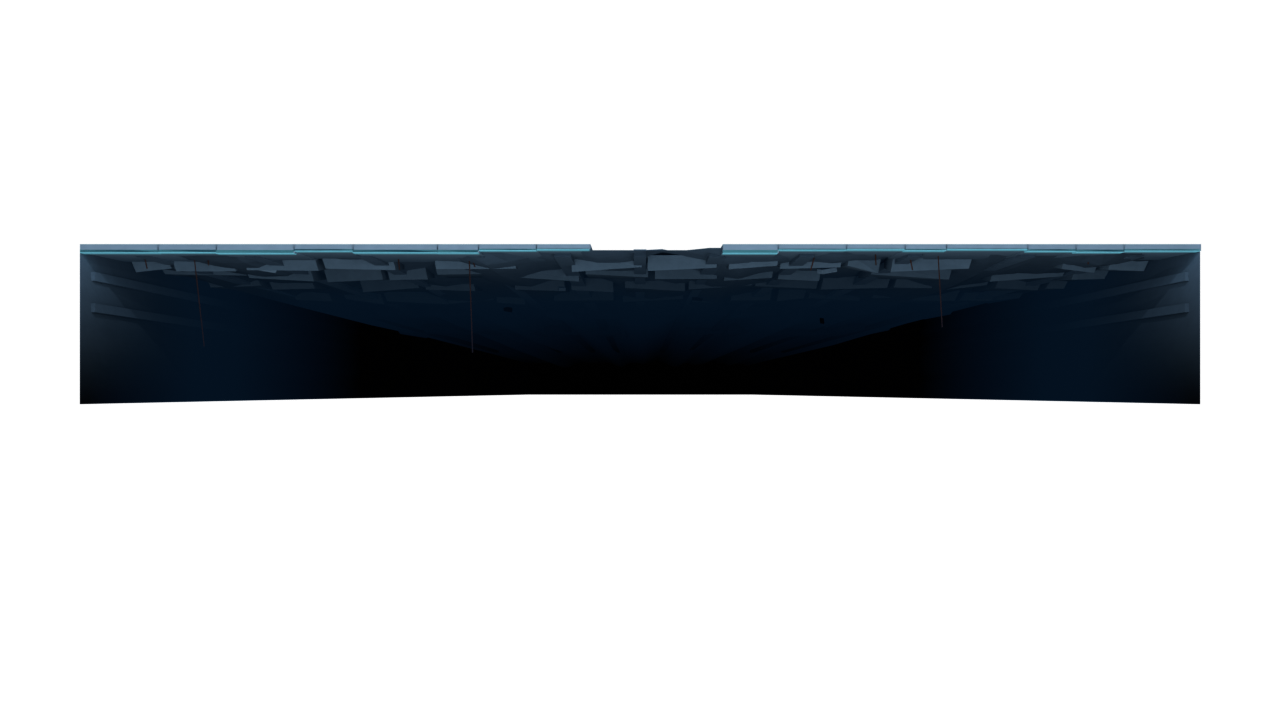
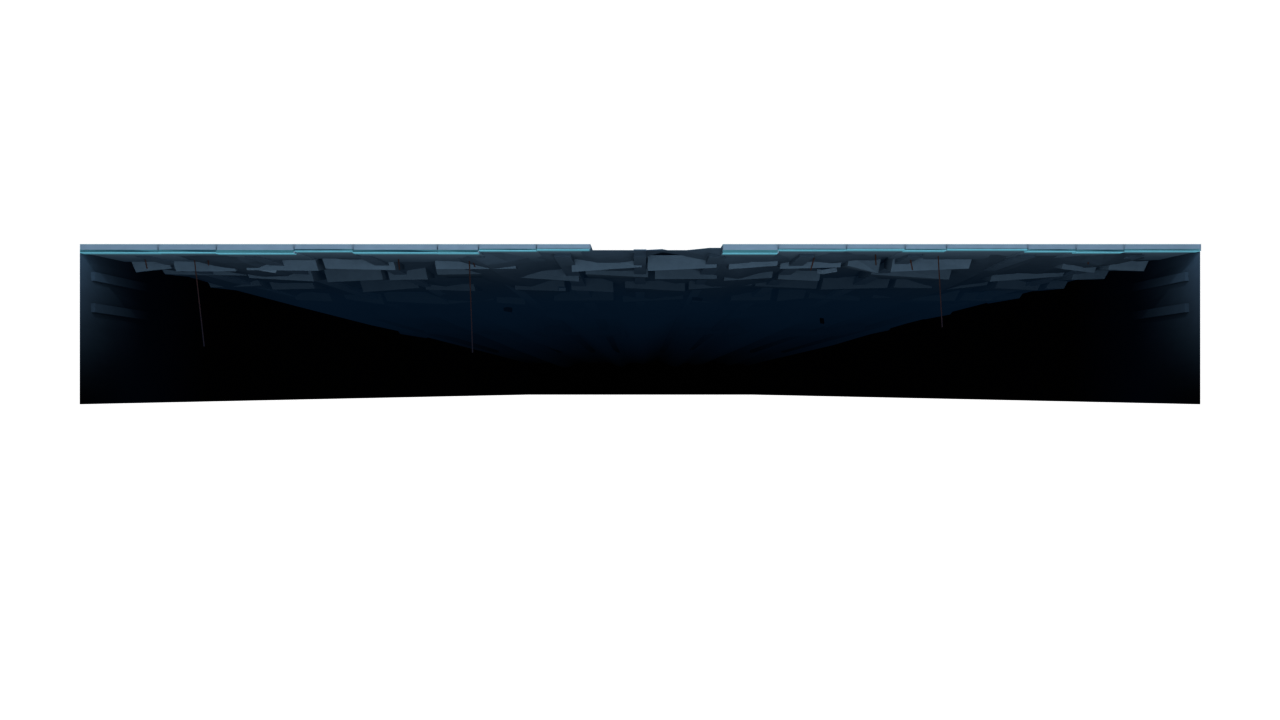
hub: deepen side-wall corner fog falloff for crisp pit contrast

Changed region(s): [[0.7812, 0.3667, 0.9062, 0.5806], [0.0938, 0.3667, 0.2188, 0.5806]]

diff --git a/art/tools/rift12.py b/art/tools/rift12.py
@@ -40,7 +40,7 @@ def P(sx, sy, k=0.0, off=Vector((0, 0, 0))):
 
 def L3(c): return tuple(((v/255) ** 2.2) for v in c)
 
-def pit_mat(name, rgb, rough=0.93, metal=0.02, noise=0.40, fog_start=-0.25, fog_mid=-2.6, fog_end=-4.7, emit=None, use_vcol=True):
+def pit_mat(name, rgb, rough=0.93, metal=0.02, noise=0.40, fog_start=-0.25, fog_mid=-2.6, fog_end=-4.7, emit=None, use_vcol=True, fog_col=(13, 27, 41)):
     m = bpy.data.materials.new(name); m.use_nodes = True; nt = m.node_tree; ns = nt.nodes; L = nt.links
     bs = ns['Principled BSDF']; bs.inputs['Roughness'].default_value = rough; bs.inputs['Metallic'].default_value = metal
     if 'Specular IOR Level' in bs.inputs: bs.inputs['Specular IOR Level'].default_value = 0.0
@@ -66,7 +66,7 @@ def pit_mat(name, rgb, rough=0.93, metal=0.02, noise=0.40, fog_start=-0.25, fog_
     mr1 = ns.new('ShaderNodeMapRange'); mr1.inputs['From Min'].default_value = fog_start; mr1.inputs['From Max'].default_value = fog_mid
     mr1.inputs['To Min'].default_value = 0.0; mr1.inputs['To Max'].default_value = 1.0; L.new(sep.outputs['Z'], mr1.inputs['Value'])
     pw1 = ns.new('ShaderNodeMath'); pw1.operation = 'POWER'; pw1.inputs[1].default_value = 0.85; L.new(mr1.outputs['Result'], pw1.inputs[0])
-    fog_em = ns.new('ShaderNodeEmission'); fog_em.inputs['Color'].default_value = (*L3((13, 27, 41)), 1); fog_em.inputs['Strength'].default_value = 1.0
+    fog_em = ns.new('ShaderNodeEmission'); fog_em.inputs['Color'].default_value = (*L3(fog_col), 1); fog_em.inputs['Strength'].default_value = 1.0
     ms1 = ns.new('ShaderNodeMixShader'); L.new(pw1.outputs['Value'], ms1.inputs['Fac']); L.new(bs.outputs['BSDF'], ms1.inputs[1]); L.new(fog_em.outputs['Emission'], ms1.inputs[2])
     # Stage 2: cold fog -> near-black bottom
     mr2 = ns.new('ShaderNodeMapRange'); mr2.inputs['From Min'].default_value = fog_mid * 0.72; mr2.inputs['From Max'].default_value = fog_end
@@ -104,7 +104,7 @@ def box_pts(name, pts_list, mat, cols=(1.0, 1.0)):
 # Materials: far cliff fades gradually so mid-pit strata stay readable in cold fog before turning black at the bottom
 wall_n = pit_mat('wall_n', (96, 114, 132), rough=0.95, noise=0.45, fog_start=-0.30, fog_mid=-3.2, fog_end=-5.2, emit=((10, 22, 34), 0.07))
 strata_m = pit_mat('strata', (106, 124, 140), rough=0.92, noise=0.42, fog_start=-0.25, fog_mid=-3.1, fog_end=-5.0, emit=((12, 24, 36), 0.06))
-wall_side = pit_mat('wall_side', (82, 98, 114), rough=0.94, noise=0.35, fog_start=-0.10, fog_mid=-1.8, fog_end=-3.2)
+wall_side = pit_mat('wall_side', (66, 82, 98), rough=0.94, noise=0.35, fog_start=-0.05, fog_mid=-0.75, fog_end=-1.45, fog_col=(4, 9, 15))
 lip_face = pit_mat('lip_face', (128, 146, 162), rough=0.86, noise=0.38, fog_start=-0.10, fog_mid=-1.5, fog_end=-2.5, emit=((24, 44, 60), 0.16))
 pilaster_m = pit_mat('pilaster', (96, 114, 132), rough=0.92, noise=0.36, fog_start=-0.30, fog_mid=-2.9, fog_end=-4.8, emit=((10, 20, 30), 0.08))
 south_mat = pit_mat('south_mat', (58, 74, 88), rough=0.84, noise=0.30, emit=((24, 46, 62), 0.12), use_vcol=False)
@@ -130,7 +130,7 @@ bm_th.to_mesh(me_th); bm_th.free(); o_th = bpy.data.objects.new('throat', me_th)
 # 1. Receding North cliff backing + West/East converging walls (corners exact at X0/X1 so no gaps)
 ks = [0.0, 0.06, 0.14, 0.24, 0.36, 0.50, 0.64, 0.78, 0.86]
 k_shade_n = lambda k: max(0.0, (1.0 - min(1.0, k / 0.82)) ** 1.35)
-k_shade_s = lambda k: max(0.0, (1.0 - min(1.0, k / 0.58)) ** 1.65)
+k_shade_s = lambda k: max(0.0, (1.0 - min(1.0, k / 0.46)) ** 1.8)
 n_xs = [X0 + (X1 - X0) * i / 48 for i in range(49)]
 rows_n, cols_n = [], []
 for k in ks:
@@ -154,7 +154,7 @@ for k in ks:
     rw, cw, re_, ce = [], [], [], []
     for iy, y in enumerate(s_ys):
         yt = (y - NY) / (SY - NY)
-        sh = k_shade_s(k) * max(0.04, (1.0 - yt * 0.88))
+        sh = k_shade_s(k) * max(0.02, (1.0 - yt * 0.95))
         rw.append(P(X0, y, k, E * (random.uniform(-0.015, 0.015) if (k > 0 and 0 < iy < len(s_ys) - 1) else 0))); cw.append(sh)
         re_.append(P(X1, y, k, -E * (random.uniform(-0.015, 0.015) if (k > 0 and 0 < iy < len(s_ys) - 1) else 0))); ce.append(sh)
     rows_w.append(rw); cols_w.append(cw); rows_e.append(re_); cols_e.append(ce)
